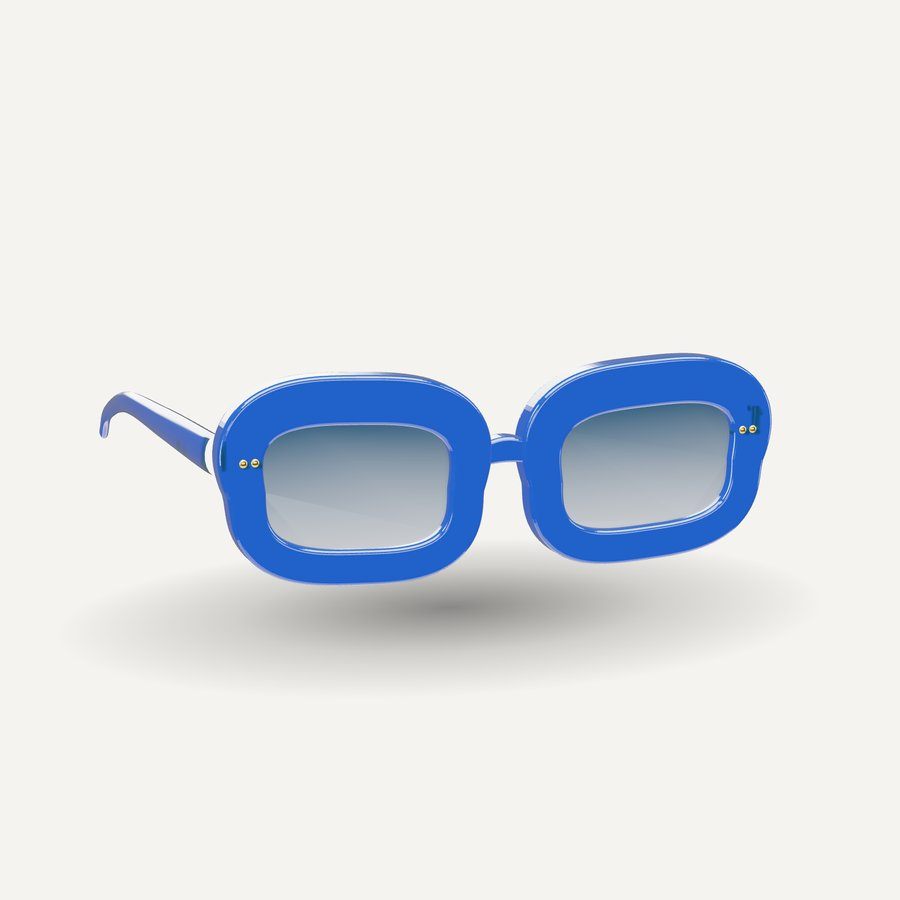
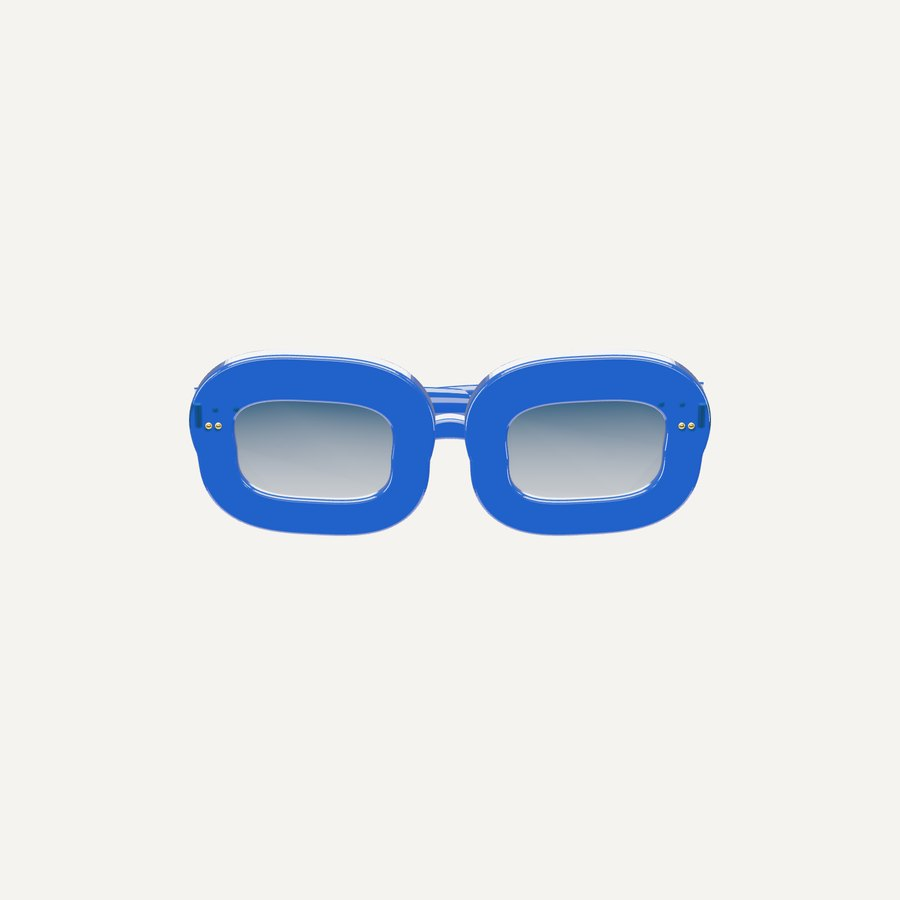
Chunkier Lapima-style frames, folded front-on shop tiles
Thicker acetate rims, sharper pointed cat-eye, butterfly and bold
rectangle/square shapes, wider temples. Shop tiles now show each pair
folded and front-on (like a flat-lay); the product page still opens the
pair unfolded with the 3D viewer and Fold / Open.

Claude-Session: https://claude.ai/code/session_01YDnzZsrTwPVNqwQfzoY9F2

Changed region(s): [[0.0933, 0.3733, 0.8711, 0.7467]]

diff --git a/demo-glasses/3d/catalog.js b/demo-glasses/3d/catalog.js
@@ -4,31 +4,31 @@ const lens = (c, o) => ({ color: c, opacity: o ?? .92 });
 const mirror = (c) => ({ color: c, mirror: true, opacity: 1, grad: false });
 
 export const PRODUCTS = [
-  { id: 'ama', name: 'Ama', price: 340, kind: 'Round · Acetate', shape: 'round', rim: 8.5, depth: 8, blurb: 'Bold, perfectly round and cut from thick, hand-polished acetate.', colors: [
+  { id: 'ama', name: 'Ama', price: 340, kind: 'Round · Acetate', shape: 'round', rim: 11, depth: 9, blurb: 'Bold, perfectly round and cut from thick, hand-polished acetate.', colors: [
     { n: 'Tortoise', swatch: '#7a3f10', frame: { type: 'tortoise' }, lens: lens('#4a2e1c') },
     { n: 'Noir', swatch: '#141414', frame: solid(0x111111, .2), lens: lens('#23262a') },
     { n: 'Honey', swatch: '#e0a63a', frame: { type: 'crystal', color: '#e8b04a', deep: '#b3641a' }, lens: lens('#5a3a1a') } ] },
-  { id: 'nia', name: 'Nia', price: 380, kind: 'Cat-eye · Acetate', shape: 'cat', rim: 7.5, brow: 4, depth: 7.8, blurb: 'A sharp, upswept cat-eye in layered acetate, finished with gold detail.', colors: [
+  { id: 'nia', name: 'Nia', price: 380, kind: 'Cat-eye · Acetate', shape: 'cat', rim: 8.5, brow: 0, depth: 8.6, blurb: 'A sharp, upswept cat-eye in layered acetate, finished with gold detail.', colors: [
     { n: 'Tortoise Smoke', swatch: '#7a3f10', frame: { type: 'duo' }, lens: lens('#4a3a30') },
     { n: 'Noir', swatch: '#141414', frame: solid(0x111111, .2), lens: lens('#262626') },
     { n: 'Burgundy', swatch: '#6a1a2a', frame: solid(0x6a1a2a, .22), lens: lens('#4a2a30') } ] },
-  { id: 'efua', name: 'Efua', price: 320, kind: 'Rectangle · Acetate', shape: 'rect', rim: 7.5, depth: 7.4, blurb: 'Wide, slim and confident. A modern rectangle with all-day comfort.', colors: [
+  { id: 'efua', name: 'Efua', price: 320, kind: 'Rectangle · Acetate', shape: 'rect', rim: 12, depth: 9, blurb: 'Wide, slim and confident. A modern rectangle with all-day comfort.', colors: [
     { n: 'Noir', swatch: '#141414', frame: solid(0x111111, .2), lens: lens('#7a5a18') },
     { n: 'Ivory', swatch: '#efe6d3', frame: solid(0xefe6d3, .26), lens: lens('#3a2a1c') },
     { n: 'Olive', swatch: '#4b5230', frame: solid(0x4b5230, .24), lens: lens('#2a3022') } ] },
-  { id: 'kofi', name: 'Kofi', price: 360, kind: 'Classic · Crystal', shape: 'wayfarer', rim: 7.5, brow: 3.5, depth: 8, blurb: 'The classic wayfarer in clear crystal acetate you can see right through.', colors: [
+  { id: 'kofi', name: 'Kofi', price: 360, kind: 'Classic · Crystal', shape: 'wayfarer', rim: 10.5, brow: 3, depth: 9, blurb: 'The classic wayfarer in clear crystal acetate you can see right through.', colors: [
     { n: 'Ocean', swatch: '#3c8fe8', frame: { type: 'crystal', color: '#4a9cf0', deep: '#1458c8' }, lens: lens('#26465c') },
     { n: 'Smoke', swatch: '#6b6b70', frame: { type: 'crystal', color: '#9a9aa2', deep: '#35353a' }, lens: lens('#2a2a2e') },
     { n: 'Noir', swatch: '#141414', frame: solid(0x111111, .2), lens: lens('#262626') } ] },
-  { id: 'kwame', name: 'Kwame', price: 350, kind: 'Angular · Acetate', shape: 'angular', rim: 7.5, depth: 8, blurb: 'Strong, square and sharp, with mirrored lenses that catch the light.', colors: [
+  { id: 'kwame', name: 'Kwame', price: 350, kind: 'Angular · Acetate', shape: 'angular', rim: 11.5, depth: 9, blurb: 'Strong, square and sharp, with mirrored lenses that catch the light.', colors: [
     { n: 'Noir · Mirror', swatch: '#141414', frame: solid(0x111111, .18), lens: mirror('#b9bfc4') },
     { n: 'Havana', swatch: '#7b4a1e', frame: { type: 'tortoise' }, lens: lens('#3a2a1a') },
     { n: 'Navy', swatch: '#1d2b4a', frame: solid(0x1d2b4a, .22), lens: lens('#2c4766') } ] },
-  { id: 'esi', name: 'Esi', price: 390, kind: 'Butterfly · Acetate', shape: 'butterfly', rim: 7, brow: 3, depth: 7.8, blurb: 'Big, bold and glamorous. Statement frames in rich, glossy colour.', colors: [
+  { id: 'esi', name: 'Esi', price: 390, kind: 'Butterfly · Acetate', shape: 'butterfly', rim: 11, brow: 2, depth: 9, blurb: 'Big, bold and glamorous. Statement frames in rich, glossy colour.', colors: [
     { n: 'Emerald', swatch: '#1f6b55', frame: solid(0x14584a, .2), lens: lens('#243a33') },
     { n: 'Cream', swatch: '#efe6d3', frame: solid(0xefe6d3, .26), lens: lens('#4d3b2a') },
     { n: 'Noir', swatch: '#141414', frame: solid(0x111111, .2), lens: lens('#2a2a2a') } ] },
-  { id: 'yaw', name: 'Yaw', price: 370, kind: 'Square · Crystal', shape: 'square', rim: 8, depth: 8.2, blurb: 'A soft, rounded square in glowing crystal acetate with deep gradient lenses.', colors: [
+  { id: 'yaw', name: 'Yaw', price: 370, kind: 'Square · Crystal', shape: 'square', rim: 11.5, depth: 9, blurb: 'A soft, rounded square in glowing crystal acetate with deep gradient lenses.', colors: [
     { n: 'Honey', swatch: '#e0a63a', frame: { type: 'crystal', color: '#e8b04a', deep: '#b3641a' }, lens: lens('#4d3a22') },
     { n: 'Burgundy', swatch: '#7a1f2e', frame: { type: 'crystal', color: '#a02a40', deep: '#5a0f1c' }, lens: lens('#4a2a30') },
     { n: 'Forest', swatch: '#1f4a3a', frame: { type: 'crystal', color: '#2f7a5a', deep: '#0f3a2a' }, lens: lens('#2a3a2e') } ] },

diff --git a/demo-glasses/3d/glasses3d.js b/demo-glasses/3d/glasses3d.js
@@ -15,14 +15,23 @@ function superellipse(n, a, b, N = 160) {
   }
   return pts;
 }
+function chaikin(pts, it = 4) {
+  for (let k = 0; k < it; k++) {
+    const out = [];
+    for (let i = 0; i < pts.length; i++) { const p = pts[i], q = pts[(i + 1) % pts.length]; out.push([.75 * p[0] + .25 * q[0], .75 * p[1] + .25 * q[1]], [.25 * p[0] + .75 * q[0], .25 * p[1] + .75 * q[1]]); }
+    pts = out;
+  }
+  let A = 0; for (let i = 0; i < pts.length; i++) { const p = pts[i], q = pts[(i + 1) % pts.length]; A += p[0] * q[1] - q[0] * p[1]; }
+  return A < 0 ? pts.reverse() : pts;
+}
 export const STYLES = {
   round:    { a: 22.5, b: 22.5, make: () => superellipse(2, 22.5, 22.5) },
-  rect:     { a: 31, b: 15, make: () => superellipse(5, 31, 15).map(([x, y]) => [x, y + 1.2 * (x + 31) / 62 - 0.8]) },
+  rect:     { a: 31, b: 16.5, make: () => superellipse(4.2, 31, 16.5).map(([x, y]) => [x, y + 1.2 * (x + 31) / 62 - 0.8]) },
   wayfarer: { a: 27, b: 19.5, make: () => superellipse(3.2, 27, 19.5).map(([x, y]) => { const u = (x + 27) / 54; return [x * (1 + 0.1 * Math.max(0, y) / 19.5), (y < 0 ? y * .88 : y) + 3 * u]; }) },
   square:   { a: 25.5, b: 22, make: () => superellipse(4.4, 25.5, 22).map(([x, y]) => [x, y - 0.04 * x]) },
   angular:  { a: 27, b: 20, make: () => superellipse(7, 27, 20).map(([x, y]) => { const u = (x + 27) / 54; return [x, y * (y < 0 ? 1 - .18 * u : 1) + 5 * Math.pow(u, 2)]; }) },
-  cat:      { a: 28, b: 20, make: () => superellipse(3.0, 28, 19).map(([x, y]) => { const u = (x + 28) / 56, up = Math.pow(u, 2.5) * 14; return [x * (1 + 0.05 * u), y < 0 ? y * (1 - 0.16 * u) + up * .5 : y + up]; }) },
-  butterfly:{ a: 31, b: 25, make: () => superellipse(2.7, 31, 25).map(([x, y]) => { const u = (x + 31) / 62, up = Math.pow(u, 2.2) * 9; return [x, y < 0 ? y * (1 - .12 * u) + up * .4 : y + up]; }) },
+  cat:      { a: 31, b: 17, make: () => chaikin([[-22,-6],[-21,4],[-9,10],[10,11],[26,17],[39,27],[32,12],[26,-2],[16,-11],[3,-15],[-10,-15],[-19,-12]], 2) },
+  butterfly:{ a: 31, b: 24, make: () => chaikin([[-28,-8],[-30,12],[-20,22],[0,24],[22,27],[31,22],[31,2],[26,-14],[12,-22],[-8,-23],[-23,-18]], 4) },
 };
 
 function offsetContour(pts, thick) {
@@ -183,7 +192,7 @@ export function buildGlasses(spec) {
   for (const side of [1, -1]) {
     const pivot = new T.Group(); pivot.position.set(side * hx, hy, zf);
     const rel = [[0, 0, 0], [side * .8, 0, -8], [side * 3.2, 0, -52], [side * 5.2, -1.2, -96], [side * 5, -10, -130], [side * 4.2, -19, -144]];
-    const geo = sweepTube(rel, .92, 1.55, 3.6, 1.55, 18, 100);
+    const geo = sweepTube(rel, .95, 2.15, 4.4, 1.7, 18, 100);
     pivot.add(new T.Mesh(geo, tm));
     /* gold rivets on the temple front */
     for (const z of [-7, -14]) {
